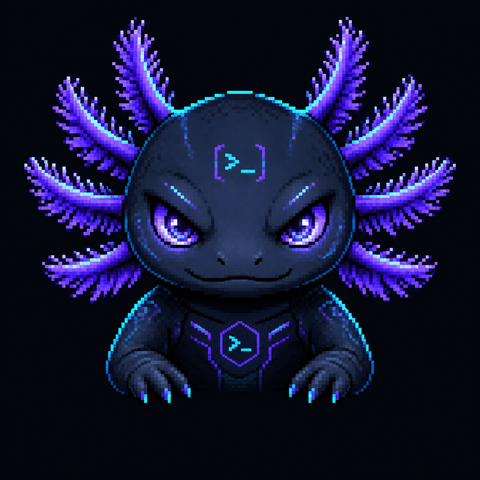
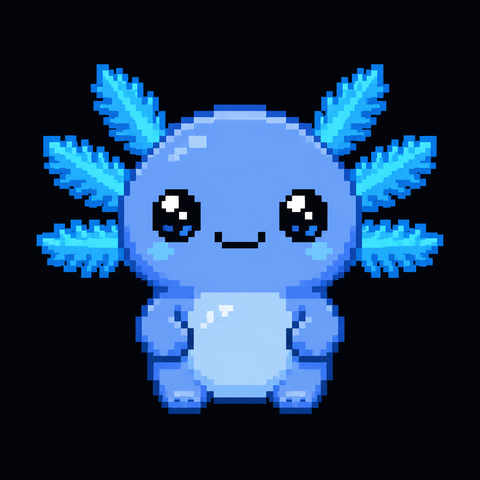
feat: the blue one — full pixel art tender axolotl, no emojis, no search box
Mascot regenerated: genuine chunky pixel-art, bright cornflower blue
with cyan feathery gills, big sparkly eyes, tiny smile — tender, zero
pink. Emoji hat/costume badges removed (state and detector reasons
remain as the text line under the name + halo color). The session
search input is gone per user request (Ctrl+K switcher still works).

diff --git a/dash/index.html b/dash/index.html
@@ -985,10 +985,7 @@
   <div id="centro"></div>
 </section>
 <section class="sec">
-  <div class="sec-label">Sesiones
-    <input id="q" placeholder="buscar sesión" autocomplete="off" spellcheck="false"
-      title="Filtra por nombre o ruta">
-  </div>
+  <div class="sec-label">Sesiones</div>
   <div id="rows"></div>
 </section>
 
@@ -1950,12 +1947,8 @@ function mdStrip(s){ return (s||"").replace(/\*\*|`|^#{1,6} /g, ""); }
 	        </div>
 	      </div>`;
 	    const fr = box.querySelector(".frames");
-	    const HATS = {corona: "👑", casco: "👷", visor: "🔍"};
-	    const COSTUMES = {fuego: "🔥", hamster: "🎡", gordo: "🍔", huevo: "🥚", bufanda: "🧣"};
 	    fr.innerHTML = `<span class="axo-wrap">
 	      <img class="axo-img" src="/axolotl.png" alt="ComandOS axolotl" draggable="false">
-	      ${HATS[hat] ? `<span class="axo-badge axo-hat">${HATS[hat]}</span>` : ""}
-	      ${COSTUMES[costume] ? `<span class="axo-badge axo-cos">${COSTUMES[costume]}</span>` : ""}
 	    </span>`;
 	    // Rol actual + cambio de rol (usa el switch de modelo existente)
 	    const rbox = box.querySelector(".cx-roles");
@@ -3844,7 +3837,7 @@ function applyQ(){
     c.classList.toggle("hidden", !!q && !(c.dataset.search||"").includes(q));
   });
 }
-$("#q").addEventListener("input", e=>{ S.q = e.target.value; applyQ(); });
+// (buscador de sesion eliminado a peticion del usuario; Ctrl+K sigue vivo)
 
 // ---------- iconos ----------
 // SVG monolínea estilo Lucide/Termius, hereda color con currentColor.
